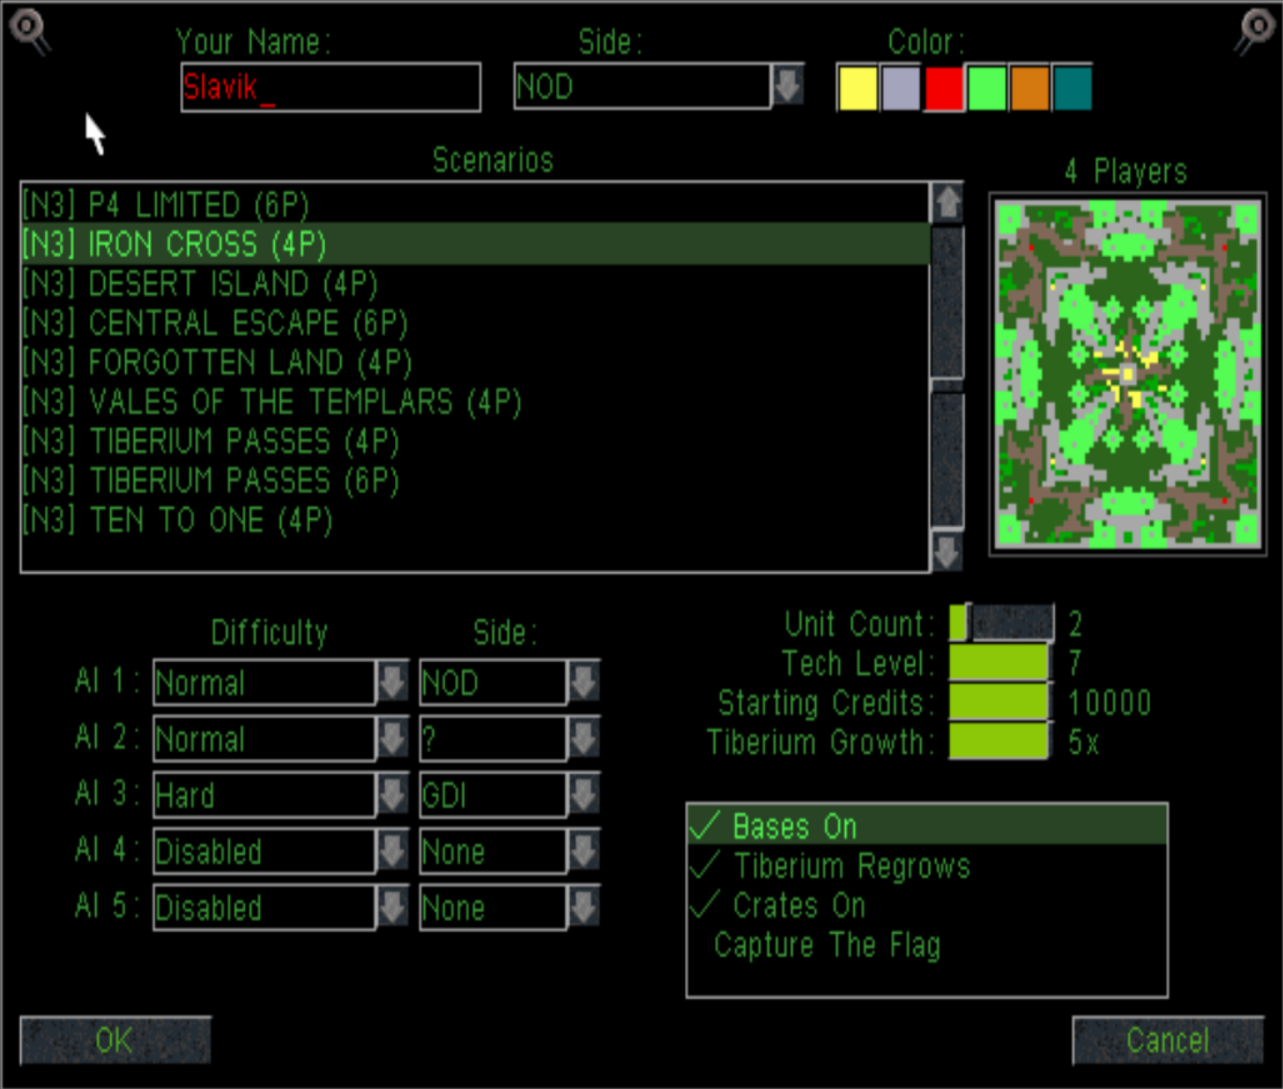
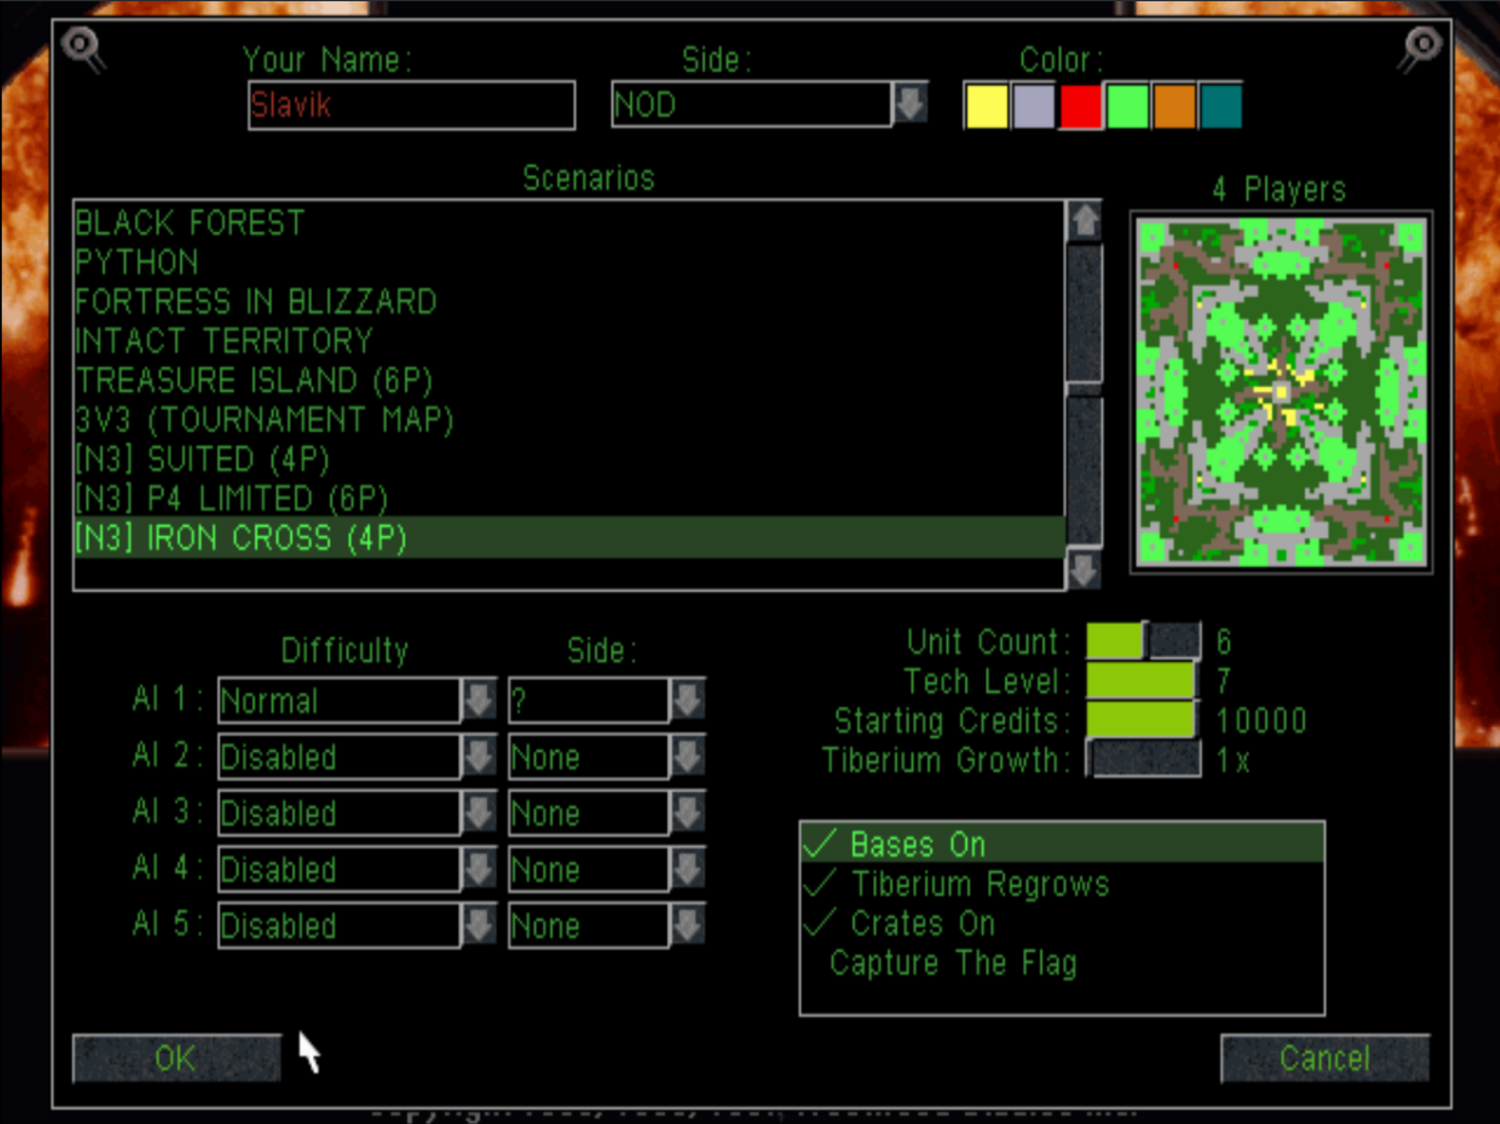
chore(README): Showcases

diff --git a/README.md b/README.md
@@ -1,12 +1,88 @@
-# 🛠 New Construction Options 🛠
+<div align="center">
+  <h1>🛠 New Construction Options 🛠</h1>
+  
+  <p align="center">
+    <a href="#download">
+      <img src="launcher/img/nco-launcher.png" style="width: 128px;" alt="TRX logo"/>
+    </a>
+  </p>
+  
+  
+  <a href="#download">
+      <h2>Download</h2>
+  </a>
+</div>
 
-C&C: New Construction Options (NCO) is a cross-platform, enhanced game engine for `Command & Conquer: Tiberian Dawn` & `Command & Conquer: Red Alert`. It's goals are to enhance the gameplay and modding experience.
+
+<hr/>
+
+C&C: New Construction Options (NCO) is a cross-platform, enhanced version of `Command & Conquer: Tiberian Dawn` & `Command & Conquer: Red Alert`. It's goals are to enhance the gameplay and modding experience.
 
 This project aims to provide an out-of-the-box experience that looks and feels like the original games while giving users extensive modding control and enhancements through in-game menus, with full INI file configuration and Lua scripting.
 
 NCO is also available as a mod for Command & Conquer: Remastered Collection, both for Tiberian Dawn and Red Alert.
 
 > This project is a fork of [Vanilla Conquer](https://github.com/TheAssemblyArmada/Vanilla-Conquer) 
+
+## Tiberian Dawn Showcase
+
+<table>
+    <tr>
+        <th>
+            <p>Native High Resolution Support</p>
+            <img src="wiki/img/td-hi-res-mode.png" alt="High Resolution" width="600" height="400"/>
+        </th>
+        <th>
+            <p>Modern Wall Building</p>
+            <img src="wiki/img/td-modern-walls.webp" alt="Modern Wall Building" width="400" height="400"/>
+        </th>
+    </tr>
+    <tr>
+        <th>
+            <p>Rally Points</p>
+            <img src="wiki/img/td-rally-points.webp" alt="Rally Points" width="400"/>
+        </th>
+        <th>
+            <p>Scenario Editor</p>
+            <img src="wiki/img/td-scenario-editor.webp" alt="Scenario Editor" width="640" height="400"/>
+        </th>
+    </tr>
+    <tr>
+        <th>
+            <p>Rules Editor</p>
+            <img src="wiki/img/td-rules-editor.webp" alt="Rules Editor" width="640" height="400"/>
+        </th>
+        <th>
+            <p>Mission Select Menu</p>
+            <img src="wiki/img/td-mission-select.webp" alt="Mission Select Menu" width="640" height="400"/>
+        </th>
+    </tr>
+    <tr>
+        <th>
+            <p>Improved Skirmish Setup</p>
+            <img src="wiki/img/td-skirmish-setup.webp" alt="Improved Skirmish Setup" width="640" height="400"/>
+        </th>
+        <th>
+            <p>Snow Theater</p>
+            <img src="wiki/img/td-snow-theatre-large.png" alt="Snow Theater" width="640" height="400"/>
+        </th>
+    </tr>
+</table>
+
+## Red Alert Showcase
+
+<table>
+    <tr>
+        <th>
+            <p>Native High Resolution Support</p>
+            <img src="wiki/img/ra-hi-res-mode.png" alt="High Resolution" width="600" height="400"/>
+        </th>
+        <th>
+            <p>The Lost Files (Mod Support)</p>
+            <img src="wiki/img/ra-lost-files.webp" alt="The Lost Files" width="600" height="400"/>
+        </th>
+    </tr>
+</table>
 
 ## Download
 

diff --git a/wiki/2.Enhancements.md b/wiki/2.Enhancements.md
@@ -21,7 +21,7 @@ This page contains a list of all enhancements New Construction Options makes to 
     - [Improved Skirmish Setup](2a.Tiberian-Dawn-Enhancements#improved-skirmish-setup)
     - [Unlock Music](2a.Tiberian-Dawn-Enhancements#unlock-music)
     - [PS1 & N64 Missions](2a.Tiberian-Dawn-Enhancements#ps1--n64-missions)
-    - [Snow Theatre](2a.Tiberian-Dawn-Enhancements#snow-theater)
+    - [Snow Theater](2a.Tiberian-Dawn-Enhancements#snow-theater)
   - **Extras**
     - [Scenario Editor](2a.Tiberian-Dawn-Enhancements#scenario-editor)
     - [CLI Options](2a.Tiberian-Dawn-Enhancements#cli-options)
